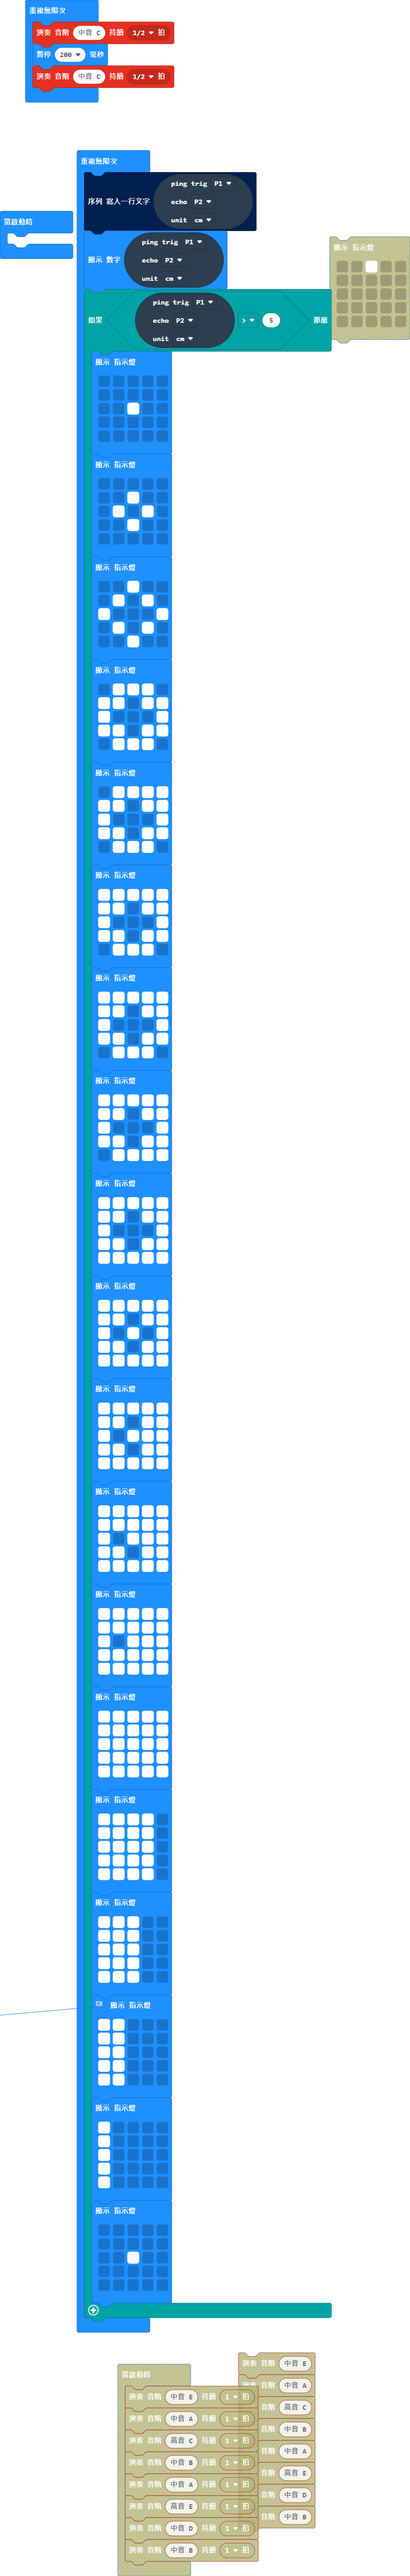
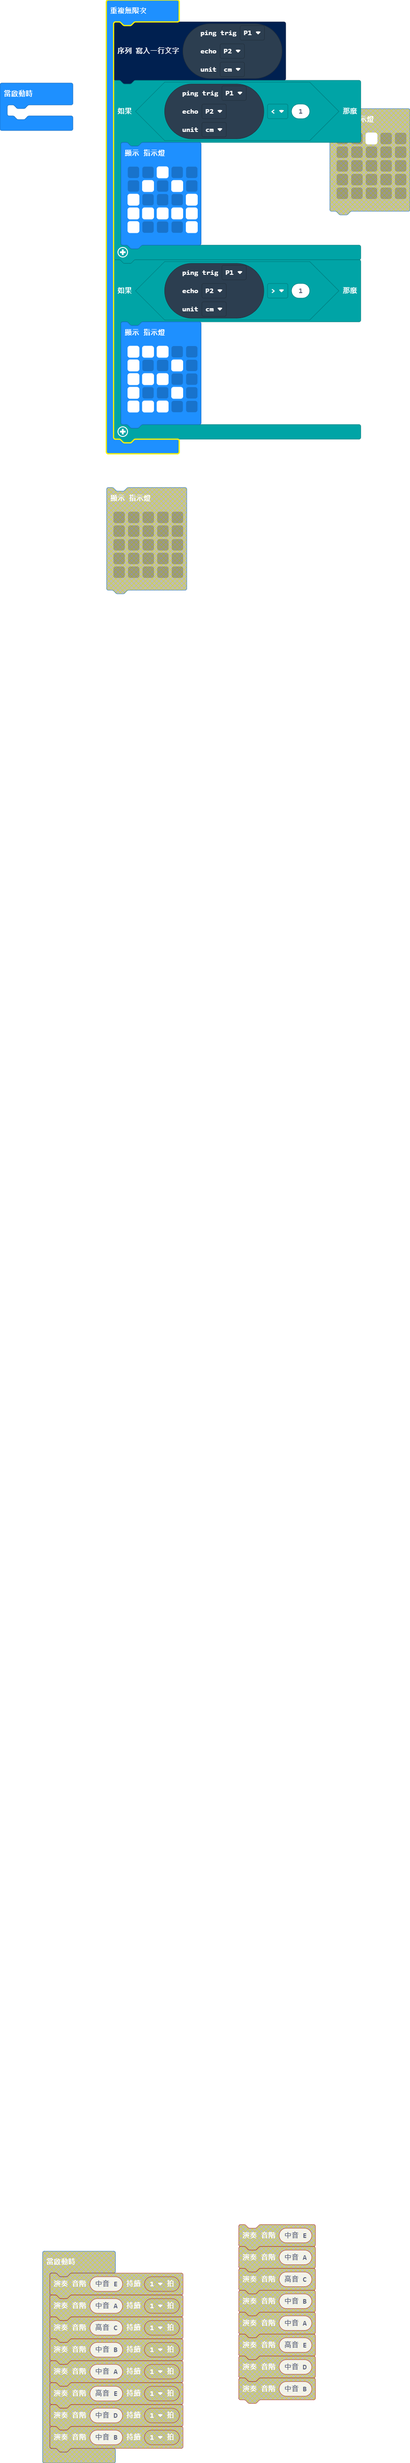
更新 main.blocks, main.ts

Changed region(s): [[0.0, 0.0, 1.0, 1.0]]

diff --git a/main.ts b/main.ts
@@ -1,157 +1,33 @@
 basic.forever(function () {
-    music.playTone(262, music.beat(BeatFraction.Half))
-    basic.pause(200)
-    music.playTone(262, music.beat(BeatFraction.Half))
-})
-basic.forever(function () {
     serial.writeLine("" + (sonar.ping(
     DigitalPin.P1,
     DigitalPin.P2,
     PingUnit.Centimeters
     )))
-    basic.showNumber(sonar.ping(
-    DigitalPin.P1,
-    DigitalPin.P2,
-    PingUnit.Centimeters
-    ))
     if (sonar.ping(
     DigitalPin.P1,
     DigitalPin.P2,
     PingUnit.Centimeters
-    ) > 5) {
-        basic.showLeds(`
-            . . . . .
-            . . . . .
-            . . # . .
-            . . . . .
-            . . . . .
-            `)
-        basic.showLeds(`
-            . . . . .
-            . . # . .
-            . # . # .
-            . . # . .
-            . . . . .
-            `)
+    ) < 1) {
         basic.showLeds(`
             . . # . .
             . # . # .
             # . . . #
-            . # . # .
-            . . # . .
-            `)
-        basic.showLeds(`
-            . # # # .
-            # # . # #
+            # # # # #
             # . . . #
-            # # . # #
-            . # # # .
             `)
-        basic.showLeds(`
-            . # # # #
-            # # . # #
-            # . . . #
-            # # . # #
-            . # # # .
-            `)
-        basic.showLeds(`
-            # # # # #
-            # # . # #
-            # . . . #
-            # # . # #
-            . # # # .
-            `)
-        basic.showLeds(`
-            # # # # #
-            # # . # #
-            # . . . #
-            # # . # #
-            . # # # .
-            `)
-        basic.showLeds(`
-            # # # # #
-            # # . # #
-            # . . . #
-            # # . # #
-            . # # # #
-            `)
-        basic.showLeds(`
-            # # # # #
-            # # . # #
-            # . . . #
-            # # . # #
-            # # # # #
-            `)
-        basic.showLeds(`
-            # # # # #
-            # # . # #
-            # . # . #
-            # # . # #
-            # # # # #
-            `)
-        basic.showLeds(`
-            # # # # #
-            # # . # #
-            # . # # #
-            # # . # #
-            # # # # #
-            `)
-        basic.showLeds(`
-            # # # # #
-            # # # # #
-            # . # # #
-            # # . # #
-            # # # # #
-            `)
-        basic.showLeds(`
-            # # # # #
-            # # # # #
-            # . # # #
-            # # # # #
-            # # # # #
-            `)
-        basic.showLeds(`
-            # # # # #
-            # # # # #
-            # # # # #
-            # # # # #
-            # # # # #
-            `)
-        basic.showLeds(`
-            # # # # .
-            # # # # .
-            # # # # .
-            # # # # .
-            # # # # .
-            `)
+    }
+    if (sonar.ping(
+    DigitalPin.P1,
+    DigitalPin.P2,
+    PingUnit.Centimeters
+    ) > 1) {
         basic.showLeds(`
             # # # . .
+            # . . # .
             # # # . .
+            # . . # .
             # # # . .
-            # # # . .
-            # # # . .
-            `)
-        // 
-        basic.showLeds(`
-            # # . . .
-            # # . . .
-            # # . . .
-            # # . . .
-            # # . . .
-            `)
-        basic.showLeds(`
-            # . . . .
-            # . . . .
-            # . . . .
-            # . . . .
-            # . . . .
-            `)
-        basic.showLeds(`
-            . . . . .
-            . . . . .
-            . . # . .
-            . . . . .
-            . . . . .
             `)
     }
 })
